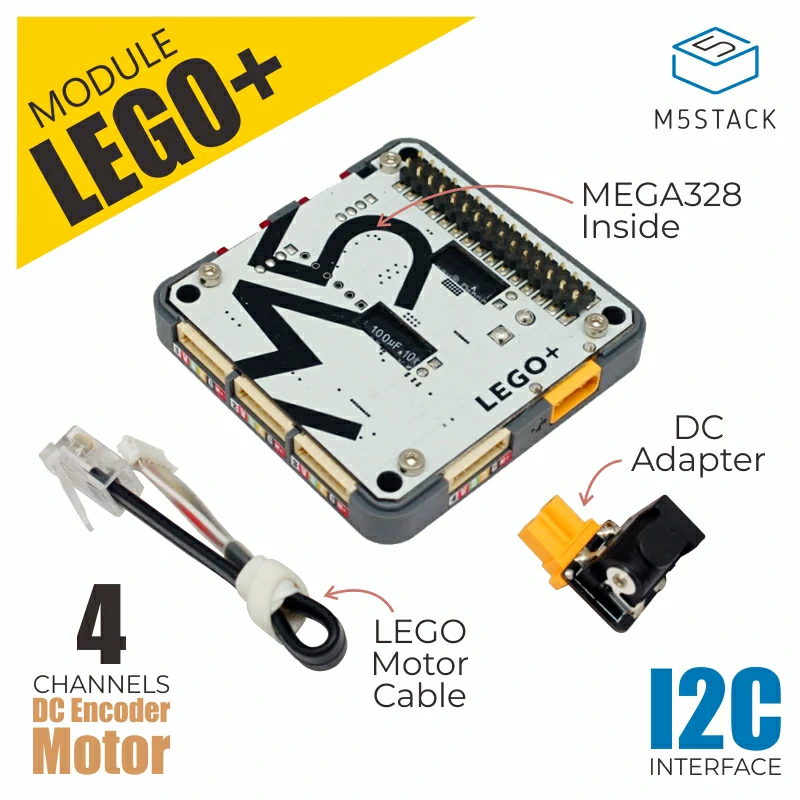
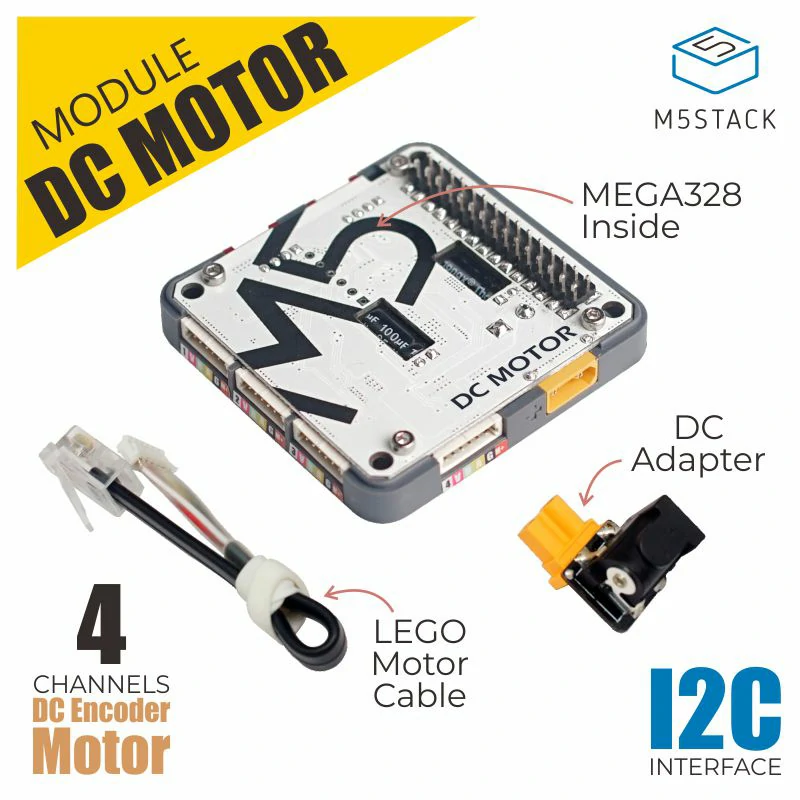
change lego picture

Changed region(s): [[0.1875, 0.1562, 0.8125, 0.6875], [0.0312, 0.0312, 0.4375, 0.3125]]

diff --git a/docs/zh_CN/module/lego_plus.md b/docs/zh_CN/module/lego_plus.md
@@ -1,4 +1,4 @@
-# Module LEGO DC Motor Driver
+# Module DC Motor Driver
 
 <div class="badge badge-pill badge-primary product_sku_tag">SKU:M021</div>
 
@@ -6,7 +6,7 @@
 
 ## 描述
 
-**LEGO DC Motor Driver** 是M5Stack堆叠模块系列中的一款，LEGO电机驱动模块.集成MEGA328和L293DD芯片,拥有4个电机驱动通道.采用直流电源输入设计用于功率补充,并通过M-BUS，自动为顶部的M5Core供电.
+**DC Motor Driver** 是M5Stack堆叠模块系列中的一款，LEGO电机驱动模块.集成MEGA328和L293DD芯片,拥有4个电机驱动通道.采用直流电源输入设计用于功率补充,并通过M-BUS，自动为顶部的M5Core供电.
 使用LEGO+ 模块能够简单快速的驱动 LEGO 电机.LEGO 电机是LEGO科技系列的技术件之一，其目的是为了创造更先进、具有更强大功能的模型.相比普通LEGO简单的砖砌建筑而言, LEGO 电机能够赋予模型更多的生命力.
 
 ## 产品特性
